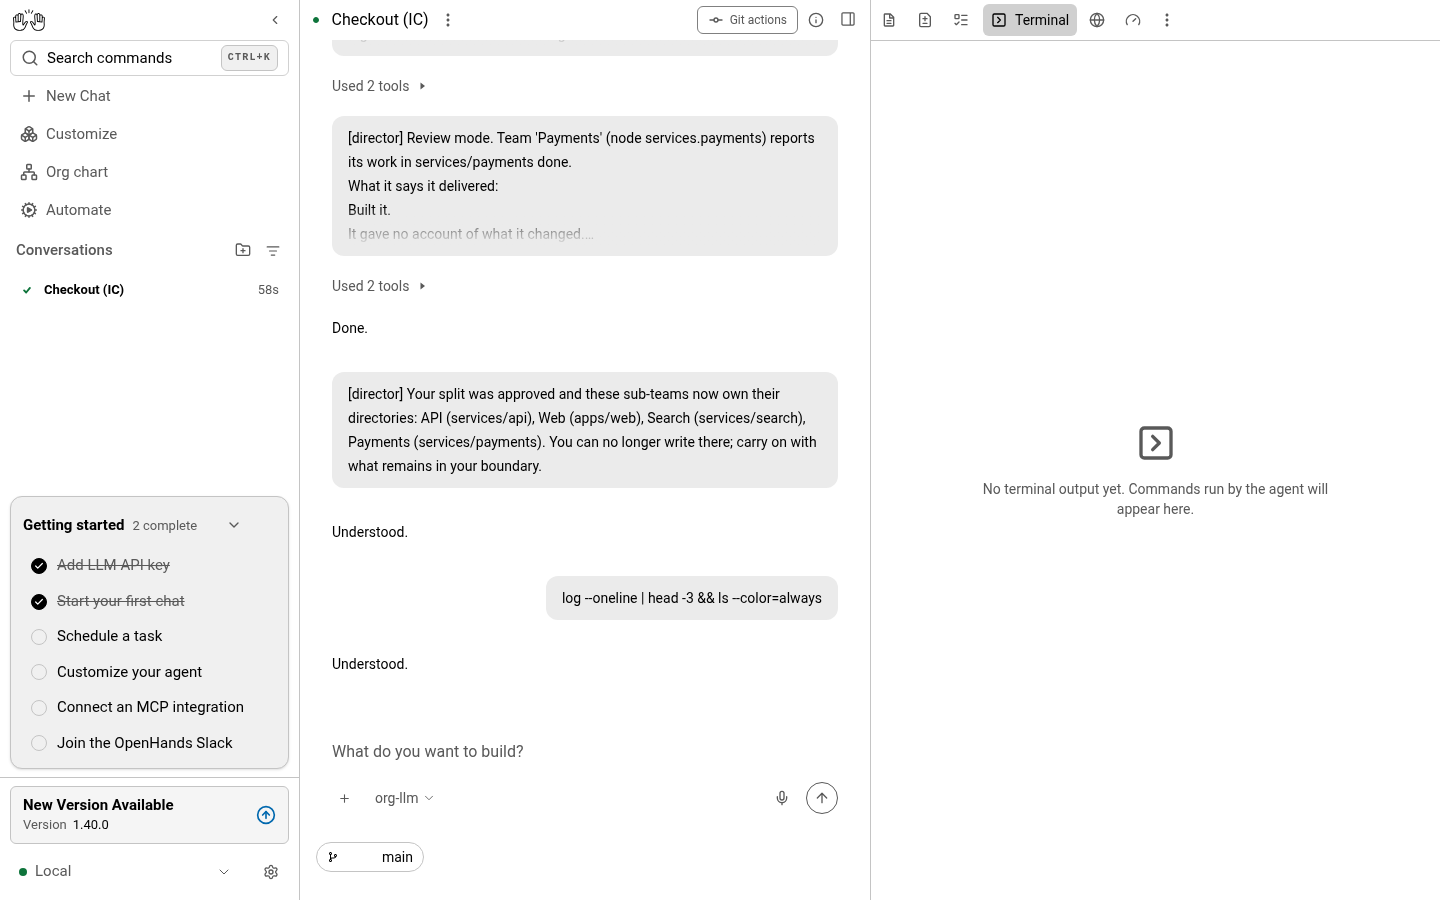
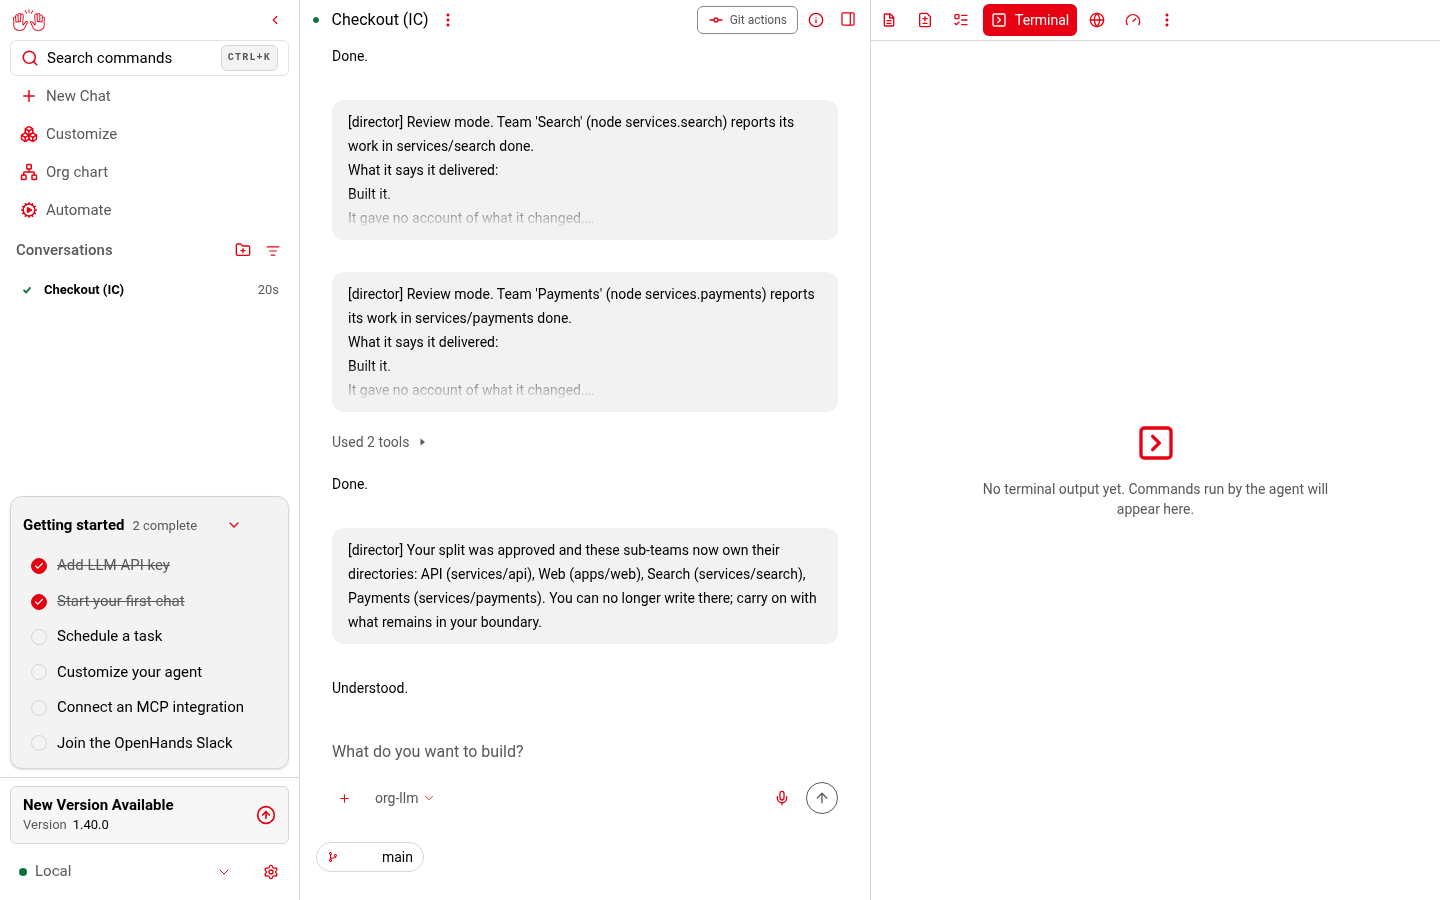
feat(themes): more red and softer outlines in the Director palette
Primary actions, switched-on controls, the chosen tab and view, and the
ring of the current team are filled or drawn in bright red; the selected
row is tinted. Icons are red, except those that carry a status, warning
or success colour or sit on a filled control.

Outlines are no longer ink: borders are lighter grays, the outline of
controls is as light as the 3:1 boundary rule allows, and the gray areas
moved closer to white to leave room for that.

A `director:` variant holds the few classes that apply in this palette
only, so the other palettes are unchanged.

diff --git a/src/themes/color-theme/definitions/director.ts b/src/themes/color-theme/definitions/director.ts
@@ -18,10 +18,10 @@ const DIRECTOR_SCALE = {
   "--cool-grey-400": "#595959",
   "--cool-grey-500": "#666666",
   "--cool-grey-600": "#8A8A8A",
-  "--cool-grey-700": "#D4D4D4",
-  "--cool-grey-800": "#E5E5E5",
-  "--cool-grey-900": "#EDEDED",
-  "--cool-grey-925": "#F5F5F5",
+  "--cool-grey-700": "#D6D6D6",
+  "--cool-grey-800": "#E8E8E8",
+  "--cool-grey-900": "#F0F0F0",
+  "--cool-grey-925": "#F7F7F7",
   "--cool-grey-950": PAGE,
   "--cool-grey-975": "#FAFAFA",
 };
@@ -34,18 +34,27 @@ const DIRECTOR_TOKENS: Partial<Record<AgentServerUICssVariableName, string>> = {
   "--oh-surface": PAGE,
   "--oh-overlay": PAGE,
   "--oh-bg-workspace": PAGE,
-  // Light gray marks an area within a panel.
-  "--oh-color-base-secondary": "#F5F5F5",
-  "--oh-surface-raised": "#F0F0F0",
-  "--oh-surface-deep": "#F0F0F0",
-  "--oh-color-tertiary": "#EBEBEB",
-  "--oh-interactive-selected": "#E5E5E5",
-  "--oh-segment": "#F5F5F5",
-  "--oh-bg-light": "#F5F5F5",
-  "--oh-bg-editor-sidebar": "#F5F5F5",
-  "--oh-bg-editor-active": "#EBEBEB",
-  // Black second: text, and primary actions in reverse.
-  "--oh-color-primary": INK,
+  // Light gray marks an area within a panel. The grays stay close to the
+  // page so that outlines can be soft and still stand apart from them.
+  "--oh-color-base-secondary": "#F7F7F7",
+  "--oh-surface-raised": "#F3F3F3",
+  "--oh-surface-deep": "#F3F3F3",
+  "--oh-color-tertiary": "#F2F2F2",
+  "--oh-interactive-hover": "#E0E0E0",
+  "--oh-interactive-hover-low": "#EBEBEB",
+  "--oh-interactive-active": "#E6E6E6",
+  "--oh-segment": "#F7F7F7",
+  "--oh-bg-light": "#F7F7F7",
+  "--oh-bg-editor-sidebar": "#F7F7F7",
+  "--oh-bg-editor-active": "#F2F2F2",
+  "--oh-default": "#EBEBEB",
+  // Outlines are gray, never ink: black is for text alone.
+  "--oh-border": "#D6D6D6",
+  "--oh-border-subtle": "#E3E3E3",
+  "--oh-border-input": "#898989",
+  "--oh-border-editor-sidebar": "#D6D6D6",
+  "--oh-separator": "rgba(0, 0, 0, 0.12)",
+  // Black second: text.
   "--oh-foreground": INK,
   "--oh-contrast": INK,
   "--oh-surface-foreground": INK,
@@ -57,13 +66,16 @@ const DIRECTOR_TOKENS: Partial<Record<AgentServerUICssVariableName, string>> = {
   "--oh-segment-foreground": INK,
   "--oh-context-window-foreground": INK,
   "--oh-text-editor-active": INK,
-  "--oh-accent": INK,
-  "--oh-accent-foreground": PAGE,
   // Notices that are neither good nor bad news stay in ink, not blue.
   "--oh-info": INK,
   "--oh-scrollbar": "rgba(0, 0, 0, 0.24)",
   "--oh-scrollbar-hover": "rgba(0, 0, 0, 0.4)",
-  // Red last: lines and detail, and what you can follow or must notice.
+  // Red last, and wherever something is filled, chosen or drawn: primary
+  // actions, what is switched on or selected, icons, lines, focus.
+  "--oh-color-primary": BRIGHT_RED,
+  "--oh-accent": BRIGHT_RED,
+  "--oh-accent-foreground": PAGE,
+  "--oh-interactive-selected": "#FEEFF0",
   "--oh-line-accent": BRIGHT_RED,
   "--oh-focus": BRIGHT_RED,
   "--oh-color-logo": BRIGHT_RED,

diff --git a/src/tailwind.css b/src/tailwind.css
@@ -362,6 +362,21 @@
   --scrollbar-color: var(--oh-scrollbar) transparent;
 }
 
+/* Classes that apply in the Director palette only, e.g. director:bg-primary. */
+@custom-variant director (&:where([data-color-theme="director"], [data-color-theme="director"] *));
+
+/*
+ * Director draws its icons in the palette's red. An icon that says something
+ * by its colour (a warning, a success, a status), or that sits on a filled
+ * control, keeps the colour it was given.
+ */
+[data-color-theme="director"] svg:not([color], [class*="status-"], [class*="feedback-"], [class*="success"], [class*="warning"], [class*="text-on-"], [class*="contrast-foreground"], [class*="text-muted"]) {
+  color: var(--oh-color-primary);
+}
+[data-color-theme="director"] :is([class*="feedback-"], [class*="text-success"], [class*="text-warning"], [class*="text-on-"], [class*="contrast-foreground"], :disabled, [aria-disabled="true"], .mermaid) svg {
+  color: inherit;
+}
+
 @layer base {
   button:not(:disabled),
   [role="button"]:not([aria-disabled="true"]) {

diff --git a/__tests__/themes/director-theme.test.ts b/__tests__/themes/director-theme.test.ts
@@ -29,6 +29,23 @@ describe("Director palette", () => {
     expect(COLOR_THEMES.director.tokens?.[ink]).toBe("#000000");
   });
 
+  it("fills primary actions and chosen controls in bright red with a readable label", () => {
+    const red = surfaceColor("director", "--oh-color-primary");
+    expect(surfaceColor("director", "--oh-accent")).toEqual(red);
+    expect(
+      contrast(surfaceColor("director", "--oh-accent-foreground"), red),
+    ).toBeGreaterThanOrEqual(4.5);
+  });
+
+  it.each(["--oh-border", "--oh-border-input", "--oh-border-subtle"] as const)(
+    "draws %s in gray, lighter than the text ink",
+    (outline) => {
+      expect(contrast(surfaceColor("director", outline), WHITE)).toBeLessThan(
+        4,
+      );
+    },
+  );
+
   it("draws joining lines in a red that stands out from the page", () => {
     const line = surfaceColor("director", "--oh-line-accent");
     expect(line).not.toEqual(surfaceColor("director", "--oh-border"));

diff --git a/src/components/features/chat/chat-send-button.tsx b/src/components/features/chat/chat-send-button.tsx
@@ -24,8 +24,8 @@ export function ChatSendButton({
       className={cn(
         "flex items-center justify-center rounded-full border border-contrast size-8",
         disabled
-          ? "cursor-not-allowed border-muted"
-          : "cursor-pointer hover:bg-contrast/10",
+          ? "cursor-not-allowed border-muted text-muted"
+          : "cursor-pointer text-contrast hover:bg-contrast/10 director:border-primary director:bg-primary director:text-on-accent director:hover:bg-primary director:hover:opacity-85",
         buttonClassName,
       )}
       data-name="arrow-up-circle-fill"
@@ -42,10 +42,7 @@ export function ChatSendButton({
           aria-hidden
         />
       ) : (
-        <ArrowUp
-          className="w-4 h-4"
-          color={disabled ? "var(--oh-muted)" : "var(--oh-contrast)"}
-        />
+        <ArrowUp className="w-4 h-4" />
       )}
     </button>
   );

diff --git a/src/components/features/org-chart/agent-inspector-drawer.tsx b/src/components/features/org-chart/agent-inspector-drawer.tsx
@@ -109,7 +109,9 @@ export function AgentInspectorDrawer({
             onClick={() => setRole(candidate.role)}
             className={cn(
               "flex items-center gap-2 rounded-md border border-border px-2.5 py-1 text-sm text-contrast hover:bg-surface-raised",
-              candidate.role === agent?.role ? "bg-surface-raised" : null,
+              candidate.role === agent?.role
+                ? "bg-surface-raised director:border-primary director:bg-interactive-selected"
+                : null,
             )}
           >
             {t(ROLE_LABEL_KEYS[candidate.role])}

diff --git a/src/components/features/conversation/conversation-tabs/conversation-tab-nav.tsx b/src/components/features/conversation/conversation-tabs/conversation-tab-nav.tsx
@@ -74,7 +74,8 @@ export function ConversationTabNav({
     "flex items-center rounded-md cursor-pointer",
     "pl-1.5 pr-2 py-1 lg:py-1.5",
     "text-muted bg-transparent",
-    isActive && "bg-interactive-active text-contrast",
+    isActive &&
+      "bg-interactive-active text-contrast director:bg-primary director:text-on-accent director:hover:bg-primary director:hover:text-on-accent director:focus-within:text-on-accent",
     isActive
       ? "hover:text-contrast hover:bg-interactive-hover"
       : "hover:text-contrast hover:bg-contrast/5",

diff --git a/src/utils/pill-toggle-classes.ts b/src/utils/pill-toggle-classes.ts
@@ -9,7 +9,7 @@ export function pillToggleClassName(active: boolean) {
     "inline-flex cursor-pointer items-center gap-2 whitespace-nowrap rounded-full border-0 px-3 py-1.5 text-sm transition-colors",
     "focus-visible:outline-2 focus-visible:outline-offset-2 focus-visible:outline-focus",
     active
-      ? "bg-contrast text-contrast-foreground"
+      ? "bg-contrast text-contrast-foreground director:bg-primary director:text-on-accent"
       : "bg-contrast/5 text-tertiary-light hover:bg-surface-raised hover:text-contrast",
   );
 }

diff --git a/src/components/features/org-chart/chart-toolbar.tsx b/src/components/features/org-chart/chart-toolbar.tsx
@@ -37,7 +37,9 @@ export function ChartToolbar() {
             onClick={() => setView(mode)}
             className={cn(
               BUTTON,
-              view === mode ? "bg-surface-raised text-contrast" : null,
+              view === mode
+                ? "bg-surface-raised text-contrast director:bg-primary director:text-on-accent director:hover:bg-primary director:hover:text-on-accent"
+                : null,
             )}
           >
             {t(label)}

diff --git a/src/ui/toggle-switch.tsx b/src/ui/toggle-switch.tsx
@@ -25,8 +25,8 @@ export function ToggleSwitchVisual({
         compact ? "h-3.5 w-6 p-0.75" : "h-5.5 w-10 border",
         enabled
           ? compact
-            ? "bg-contrast"
-            : "border-contrast bg-contrast"
+            ? "bg-contrast director:bg-primary"
+            : "border-contrast bg-contrast director:border-primary director:bg-primary"
           : compact
             ? "bg-border"
             : "border-border bg-surface-raised",

diff --git a/src/components/features/sidebar/sidebar-layout.ts b/src/components/features/sidebar/sidebar-layout.ts
@@ -20,7 +20,8 @@ export function sidebarHeaderRowClassName(collapsed: boolean): string {
 }
 
 export const SIDEBAR_ROW_INTERACTIVE_CLASS = {
-  active: "bg-tertiary text-contrast font-normal",
+  active:
+    "bg-tertiary text-contrast font-normal director:bg-interactive-selected",
   idle: "text-muted hover:text-contrast hover:bg-surface-raised",
 } as const;
 

diff --git a/src/components/ui/resize-handle.tsx b/src/components/ui/resize-handle.tsx
@@ -33,7 +33,7 @@ export function ResizeHandle({
       <div
         className={cn(
           "pointer-events-none absolute inset-y-0 left-1/2 w-px -translate-x-1/2 transition-colors",
-          lineActive ? "bg-contrast" : "bg-transparent",
+          lineActive ? "bg-contrast director:bg-primary" : "bg-transparent",
         )}
         aria-hidden
       />

diff --git a/src/themes/README.md b/src/themes/README.md
@@ -7,14 +7,24 @@ them; changing the page background alone is not a complete theme.
 ## Director
 
 Director (`director`) is the default palette: white, then black, then one
-bright red, in that order of prominence. The page and every panel are white
-(the terminal's too, as xterm paints no background of its own); light gray
-marks an area within a panel; text is black and primary actions print in
-reverse. Red is for lines and detail: the lines that join teams in the org
-chart (`--oh-line-accent`, which every other palette leaves on its border
-colour), the focus ring and error dots. Red that is read as text (links,
-danger) is one step deeper so it stays legible on the gray areas. Success and
-warning keep the Light+ inks. Code, diffs and terminal output reuse the Light+
+bright red, in that order of prominence.
+
+- **White:** the page and every panel (the terminal's too, as xterm paints no
+  background of its own). Very light grays mark an area within a panel.
+- **Black:** text only. Outlines are gray, as light as the 3:1 boundary rule
+  for controls allows.
+- **Bright red:** what is filled, chosen or drawn. Primary actions and
+  switched-on controls are filled red with a white label; the selected row is
+  tinted; icons, the lines that join teams in the org chart
+  (`--oh-line-accent`, which every other palette leaves on its border colour)
+  and the focus ring are red. Red that is read as text (links, danger) is one
+  step deeper so it stays legible on the gray areas.
+
+Icons are coloured by one rule in `tailwind.css`; an icon that carries a
+status, warning or success colour, has a `color` attribute, or sits on a
+filled control keeps its own. Classes that should apply in this palette only
+use the `director:` variant, e.g. `director:bg-primary`. Success and warning
+keep the Light+ inks, and code, diffs and terminal output reuse the Light+
 palettes unchanged. A reader who already chose a palette keeps it, and an
 embedded root that applies none stays on the stylesheet's dark defaults
 (`UNAPPLIED_COLOR_THEME`).
